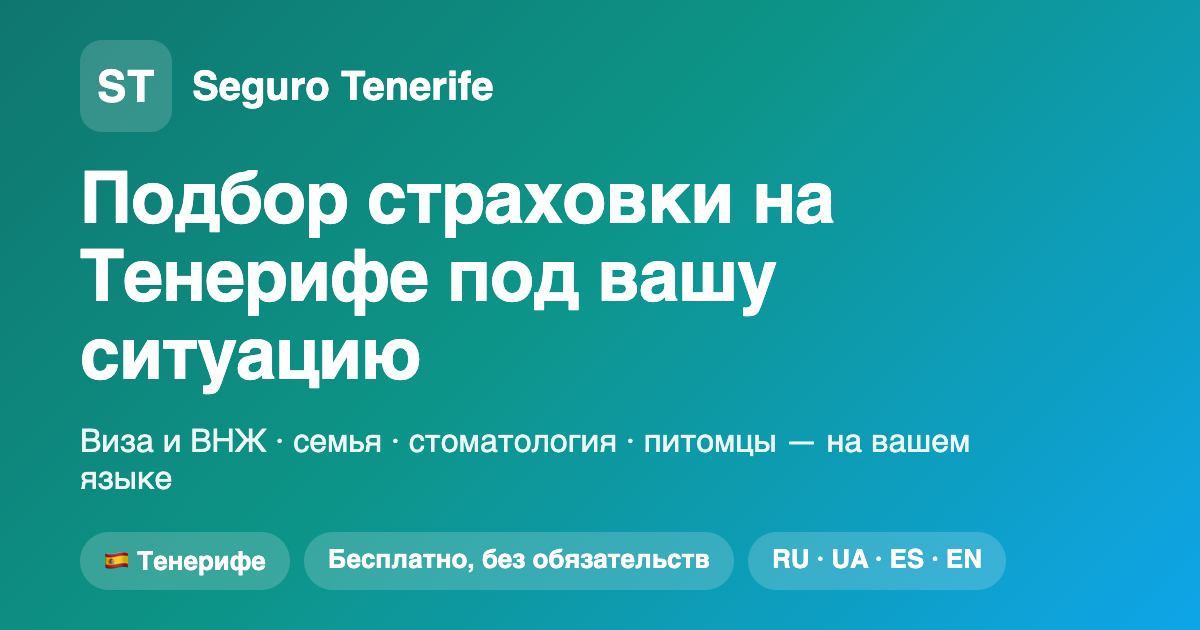
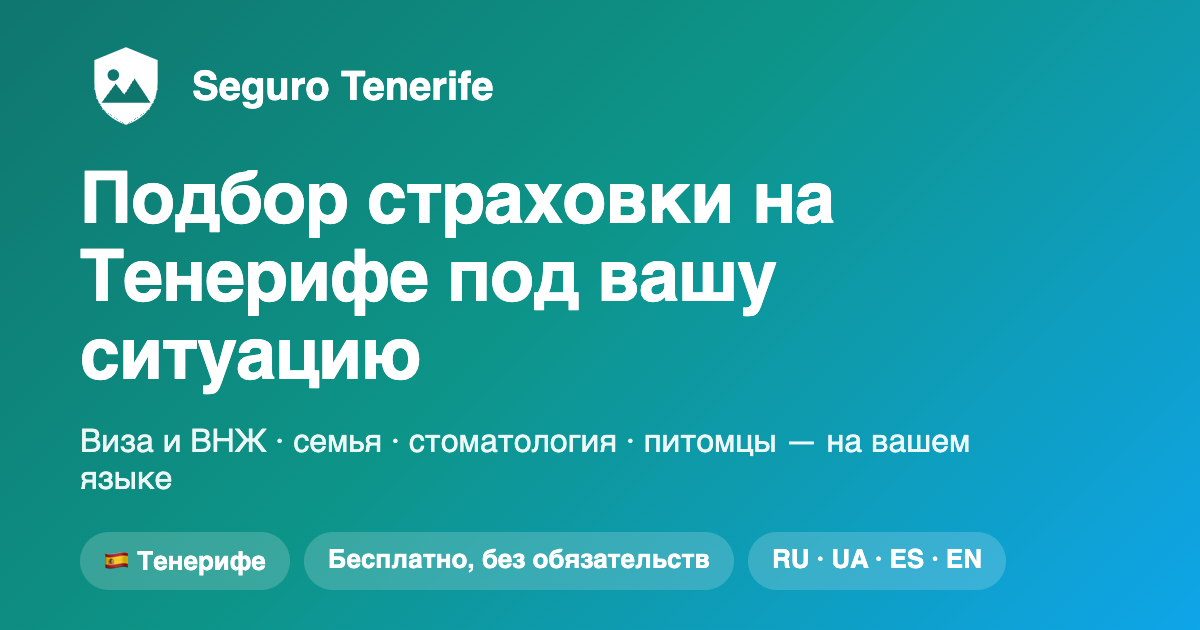
feat(ui): плавные анимации интерфейса + фирменный логотип
Анимации (все под motion-safe — уважают prefers-reduced-motion):
- Попап чата: плавное открытие/закрытие (popIn/popOut, рост от угла FAB) —
  держим в DOM на время exit-анимации (раньше появлялся/исчезал резко).
- Правовая модалка: вход (slideUp/popIn) и ВЫХОД (slideDown/popOut) + фон fade.
- Сообщения чата, карточка хендоффа, индикаторы — мягкое появление (msgIn/fadeIn).
- Плейсхолдер ввода больше не «скачет»: фейдовый оверлей, каждая фраза мягко
  всплывает (нативный placeholder заменён анимируемым span).
- Новые keyframes в tailwind.preset: fadeOut/slideDown/popIn/popOut/msgIn.

Логотип: фирменный знак — щит (страхование/защита) с силуэтом Тейде и солнцем
в бренд-градиенте. Заменил заглушку «ST»:
- favicon.svg (вкладка браузера), навбар и футер — градиентный щит;
- шапка чата — белый вариант; og-image перегенерирован со щитом.

typecheck/build чисто, e2e 16/16, vitest 8/8.

Changed region(s): [[0.0617, 0.0603, 0.1542, 0.2111]]

diff --git a/frontend/libs/widgets/src/legal/LegalModal.tsx b/frontend/libs/widgets/src/legal/LegalModal.tsx
@@ -8,7 +8,7 @@
  * Доступность: role="dialog" aria-modal, Esc закрывает, фокус в окно при открытии,
  * клик по фону закрывает, уважение prefers-reduced-motion (без анимаций).
  */
-import { useEffect, useRef } from 'react';
+import { useEffect, useRef, useState } from 'react';
 import { useLang } from '@shared/i18n';
 import { useUiStore } from '@shared/store';
 import { LEGAL, type LegalDocId } from './legalContent';
@@ -26,8 +26,28 @@ export function LegalModal(): JSX.Element | null {
   const { lang } = useLang();
   const panelRef = useRef<HTMLDivElement>(null);
 
+  // Плавный вход/выход: держим контент во время exit-анимации (activeDoc хранит
+  // показываемый документ даже после того, как стор обнулил legalDoc).
+  const [activeDoc, setActiveDoc] = useState<LegalDocId | null>(null);
+  const [closing, setClosing] = useState(false);
+  const closeTimer = useRef<ReturnType<typeof setTimeout> | null>(null);
   useEffect(() => {
-    if (!isLegalDocId(legalDoc)) return;
+    if (isLegalDocId(legalDoc)) {
+      if (closeTimer.current) clearTimeout(closeTimer.current);
+      setActiveDoc(legalDoc);
+      setClosing(false);
+    } else if (activeDoc) {
+      setClosing(true);
+      closeTimer.current = setTimeout(() => {
+        setActiveDoc(null);
+        setClosing(false);
+      }, 200);
+    }
+    // eslint-disable-next-line react-hooks/exhaustive-deps
+  }, [legalDoc]);
+
+  useEffect(() => {
+    if (!activeDoc) return;
     panelRef.current?.focus();
     const onKey = (e: KeyboardEvent): void => {
       if (e.key === 'Escape') closeLegal();
@@ -40,15 +60,17 @@ export function LegalModal(): JSX.Element | null {
       document.removeEventListener('keydown', onKey);
       document.body.style.overflow = prevOverflow;
     };
-  }, [legalDoc, closeLegal]);
+  }, [activeDoc, closeLegal]);
 
-  if (!isLegalDocId(legalDoc)) return null;
+  if (!activeDoc) return null;
 
-  const doc = LEGAL[lang][legalDoc];
+  const doc = LEGAL[lang][activeDoc];
 
   return (
     <div
-      className="fixed inset-0 z-[80] flex items-end justify-center bg-black/40 p-0 motion-safe:animate-[fadeIn_150ms_ease-out] sm:items-center sm:p-4"
+      className={`fixed inset-0 z-[80] flex items-end justify-center bg-black/40 p-0 sm:items-center sm:p-4 ${
+        closing ? 'motion-safe:animate-fadeOut' : 'motion-safe:animate-fadeIn'
+      }`}
       onMouseDown={(e) => {
         // Клик именно по фону (не по содержимому) закрывает.
         if (e.target === e.currentTarget) closeLegal();
@@ -60,7 +82,11 @@ export function LegalModal(): JSX.Element | null {
         aria-modal="true"
         aria-label={doc.title}
         tabIndex={-1}
-        className="flex max-h-[92vh] w-full flex-col overflow-hidden rounded-t-2xl bg-white shadow-2xl outline-none sm:max-h-[85vh] sm:max-w-2xl sm:rounded-2xl"
+        className={`flex max-h-[92vh] w-full flex-col overflow-hidden rounded-t-2xl bg-white shadow-2xl outline-none sm:max-h-[85vh] sm:max-w-2xl sm:rounded-2xl ${
+          closing
+            ? 'motion-safe:animate-slideDown sm:motion-safe:animate-popOut'
+            : 'motion-safe:animate-slideUp sm:motion-safe:animate-popIn'
+        }`}
       >
         {/* Шапка */}
         <div className="flex items-start justify-between gap-4 border-b border-slate-200 px-5 py-4 sm:px-7">

diff --git a/frontend/libs/features/src/chat/ui/FreeAsk.tsx b/frontend/libs/features/src/chat/ui/FreeAsk.tsx
@@ -44,22 +44,34 @@ export function FreeAsk({ ct, onAsk, pending, placeholders }: FreeAskProps): JSX
     onAsk(q);
   }
 
-  const placeholder = value === '' ? list[phIdx % list.length] : '';
+  const currentPh = list[phIdx % list.length] ?? '';
 
   return (
     <form className="flex items-center gap-2" onSubmit={handleSubmit}>
-      <input
-        type="text"
-        value={value}
-        onChange={(e) => setValue(e.target.value)}
-        placeholder={placeholder}
-        aria-label={ct('ask_title')}
-        autoComplete="off"
-        enterKeyHint="send"
-        // text-base (16px) обязателен: при меньшем шрифте iOS Safari зумит
-        // страницу при фокусе на input → ломается вёрстка/скролл.
-        className="min-w-0 flex-1 rounded-xl border-[1.5px] border-slate-200 px-3.5 py-2.5 text-base focus:border-brand focus:outline-none"
-      />
+      {/* Плейсхолдер — фейдовый оверлей (нативный placeholder не анимируется):
+          каждая фраза мягко всплывает (motion-safe:animate-msgIn по key). */}
+      <div className="relative min-w-0 flex-1">
+        {value === '' && (
+          <span
+            key={phIdx}
+            aria-hidden
+            className="pointer-events-none absolute inset-y-0 left-[15px] right-3 flex items-center truncate text-base text-slate-400 motion-safe:animate-msgIn"
+          >
+            {currentPh}
+          </span>
+        )}
+        <input
+          type="text"
+          value={value}
+          onChange={(e) => setValue(e.target.value)}
+          aria-label={ct('ask_title')}
+          autoComplete="off"
+          enterKeyHint="send"
+          // text-base (16px) обязателен: при меньшем шрифте iOS Safari зумит
+          // страницу при фокусе на input → ломается вёрстка/скролл.
+          className="w-full rounded-xl border-[1.5px] border-slate-200 bg-transparent px-3.5 py-2.5 text-base focus:border-brand focus:outline-none"
+        />
+      </div>
       <button
         type="submit"
         aria-label={ct('ask_send')}

diff --git a/frontend/libs/widgets/src/organisms/ChatLauncher.tsx b/frontend/libs/widgets/src/organisms/ChatLauncher.tsx
@@ -11,7 +11,7 @@
  * Сам чат-сценарий — в ChatWidget (@features), он стартует при монтировании
  * (т.е. при открытии окна).
  */
-import { useEffect, useRef } from 'react';
+import { useEffect, useRef, useState } from 'react';
 import { useTranslation } from 'react-i18next';
 import { useUiStore } from '@shared/store';
 import { ChatWidget } from '@features';
@@ -79,11 +79,31 @@ export function ChatLauncher(): JSX.Element {
     };
   }, [chatOpen, closeChat]);
 
+  // Плавное открытие/закрытие: держим попап в DOM на время exit-анимации.
+  const [rendered, setRendered] = useState(false);
+  const [closing, setClosing] = useState(false);
+  const closeTimer = useRef<ReturnType<typeof setTimeout> | null>(null);
+  useEffect(() => {
+    if (chatOpen) {
+      if (closeTimer.current) clearTimeout(closeTimer.current);
+      setRendered(true);
+      setClosing(false);
+    } else if (rendered) {
+      setClosing(true);
+      closeTimer.current = setTimeout(() => {
+        setRendered(false);
+        setClosing(false);
+      }, 190);
+    }
+    // rendered намеренно не в зависимостях — реагируем только на смену chatOpen.
+    // eslint-disable-next-line react-hooks/exhaustive-deps
+  }, [chatOpen]);
+
   return (
     <>
-      {/* Всплывающее окно чата. Монтируется только когда открыто — чат стартует
-          при открытии (ChatWidget сам инициирует сценарий на mount). */}
-      {chatOpen && (
+      {/* Всплывающее окно чата. Держим в DOM на время анимаций входа/выхода;
+          чат стартует при монтировании (ChatWidget сам инициирует сценарий). */}
+      {rendered && (
         <div
           ref={dialogRef}
           role="dialog"
@@ -98,6 +118,9 @@ export function ChatLauncher(): JSX.Element {
             // налезает на шапку с переключателем языка даже на низких окнах.
             'inset-x-2 top-16 bottom-2 sm:inset-x-auto sm:right-6 sm:top-20 sm:bottom-[6.5rem]',
             'sm:w-[400px] sm:max-w-[calc(100vw-3rem)]',
+            // Плавные вход/выход (растём от угла FAB). Уважаем reduced-motion.
+            'origin-bottom sm:origin-bottom-right',
+            closing ? 'motion-safe:animate-popOut' : 'motion-safe:animate-popIn',
           )}
         >
           {/* Кнопка закрытия в углу окна (дублирует тоггл FAB — для наглядности). */}

diff --git a/frontend/libs/features/src/chat/ui/ChatWidget.tsx b/frontend/libs/features/src/chat/ui/ChatWidget.tsx
@@ -135,8 +135,16 @@ export function ChatWidget(): JSX.Element {
     >
       {/* Шапка. pr-14 — место под ✕ из ChatLauncher (абсолют в правом углу). */}
       <div className="relative flex items-center gap-3 bg-gradient-to-br from-brand-dark to-brand py-[14px] pl-[18px] pr-14 text-white">
-        <div className="grid h-10 w-10 shrink-0 place-items-center rounded-xl bg-white/20 font-extrabold">
-          ST
+        <div className="grid h-10 w-10 shrink-0 place-items-center rounded-xl bg-white/20">
+          {/* Логотип-щит (белый, т.к. фон шапки цветной). */}
+          <svg className="h-6 w-6" viewBox="0 0 32 32" aria-hidden="true">
+            <path
+              d="M16 2.5 L27 7 V15 C27 22.4 22.2 27.4 16 29.5 C9.8 27.4 5 22.4 5 15 V7 Z"
+              fill="#fff"
+            />
+            <circle cx="11.6" cy="12.2" r="2" fill="#0f766e" />
+            <path d="M7.5 21.8 L12.4 15.2 L15.4 19 L19 13.4 L24.5 21.8 Z" fill="#0f766e" />
+          </svg>
         </div>
         <div className="flex min-w-0 flex-col leading-tight">
           <b className="truncate text-[0.98rem]">{ct('title')}</b>
@@ -166,7 +174,7 @@ export function ChatWidget(): JSX.Element {
           ) : (
             <div
               key={m.id}
-              className={m.author === 'user' ? 'max-w-[84%] self-end' : 'max-w-[84%] self-start'}
+              className={`max-w-[84%] motion-safe:animate-msgIn ${m.author === 'user' ? 'self-end' : 'self-start'}`}
             >
               <div
                 className={
@@ -183,7 +191,7 @@ export function ChatWidget(): JSX.Element {
 
         {/* «печатает» / «подбираем менеджера» — компактные инлайн-индикаторы */}
         {asking && (
-          <div className="max-w-[84%] self-start" role="status" aria-label="…">
+          <div className="max-w-[84%] self-start motion-safe:animate-fadeIn" role="status" aria-label="…">
             <div className="inline-flex items-center gap-1 rounded-2xl rounded-bl-sm border border-slate-200 bg-white px-[15px] py-[13px]">
               <span className="h-[7px] w-[7px] rounded-full bg-slate-300 motion-safe:animate-pulse" />
               <span className="h-[7px] w-[7px] rounded-full bg-slate-300 [animation-delay:0.2s] motion-safe:animate-pulse" />
@@ -192,7 +200,7 @@ export function ChatWidget(): JSX.Element {
           </div>
         )}
         {matching && (
-          <div className="self-start" role="status">
+          <div className="self-start motion-safe:animate-msgIn" role="status">
             <div className="inline-flex items-center gap-2.5 rounded-2xl rounded-bl-sm border border-slate-200 bg-white px-[15px] py-3">
               <span className="inline-block h-4 w-4 animate-spin rounded-full border-2 border-brand-tint border-t-brand" />
               <span className="text-[0.9rem] font-medium text-ink">{ct('load_h')}</span>
@@ -243,7 +251,7 @@ function HandoffCard({
   ];
 
   return (
-    <div className="self-stretch rounded-2xl border border-slate-200 bg-white p-3.5">
+    <div className="self-stretch rounded-2xl border border-slate-200 bg-white p-3.5 motion-safe:animate-msgIn">
       <div className="flex flex-col gap-2">
         {ordered.map((m, idx) => (
           <a